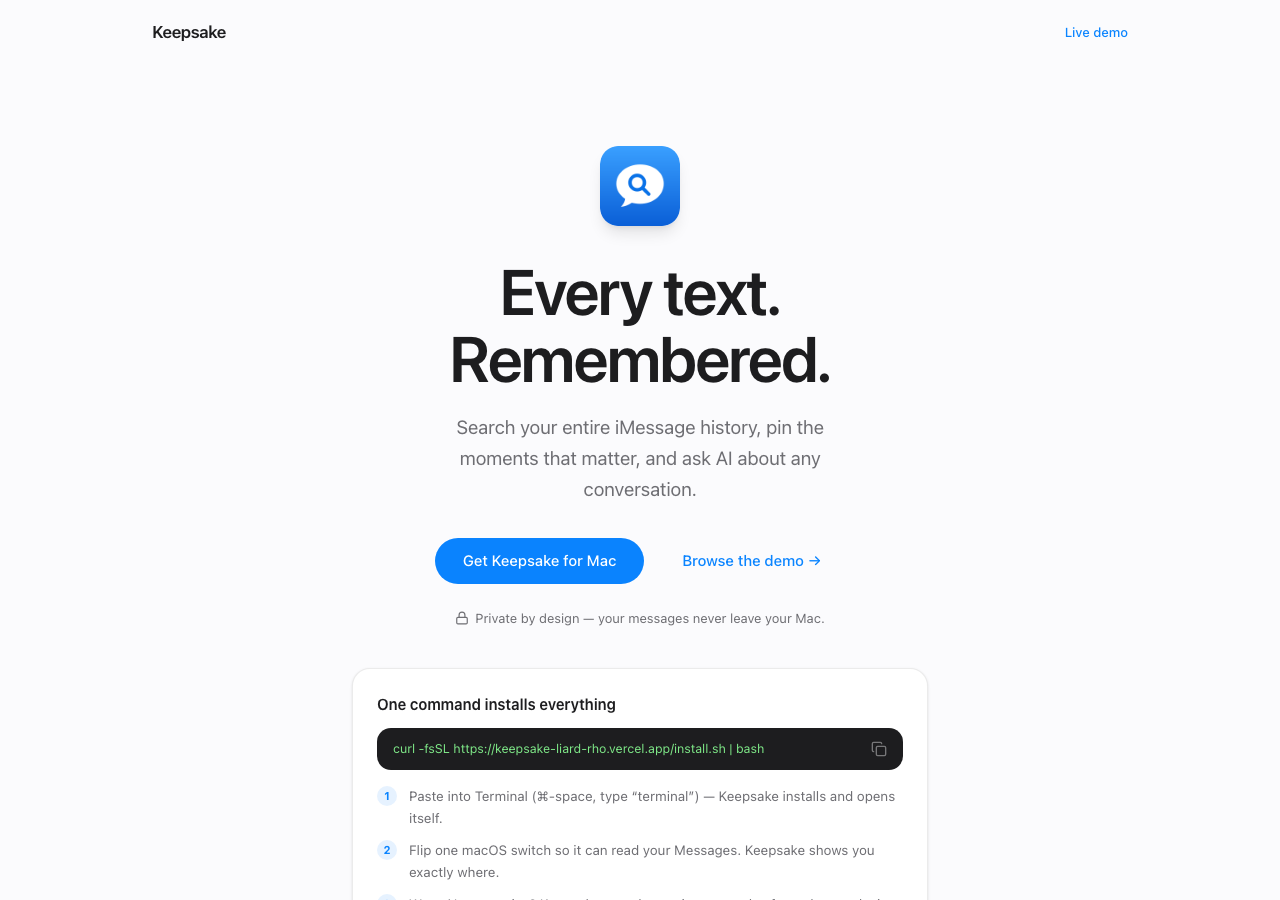
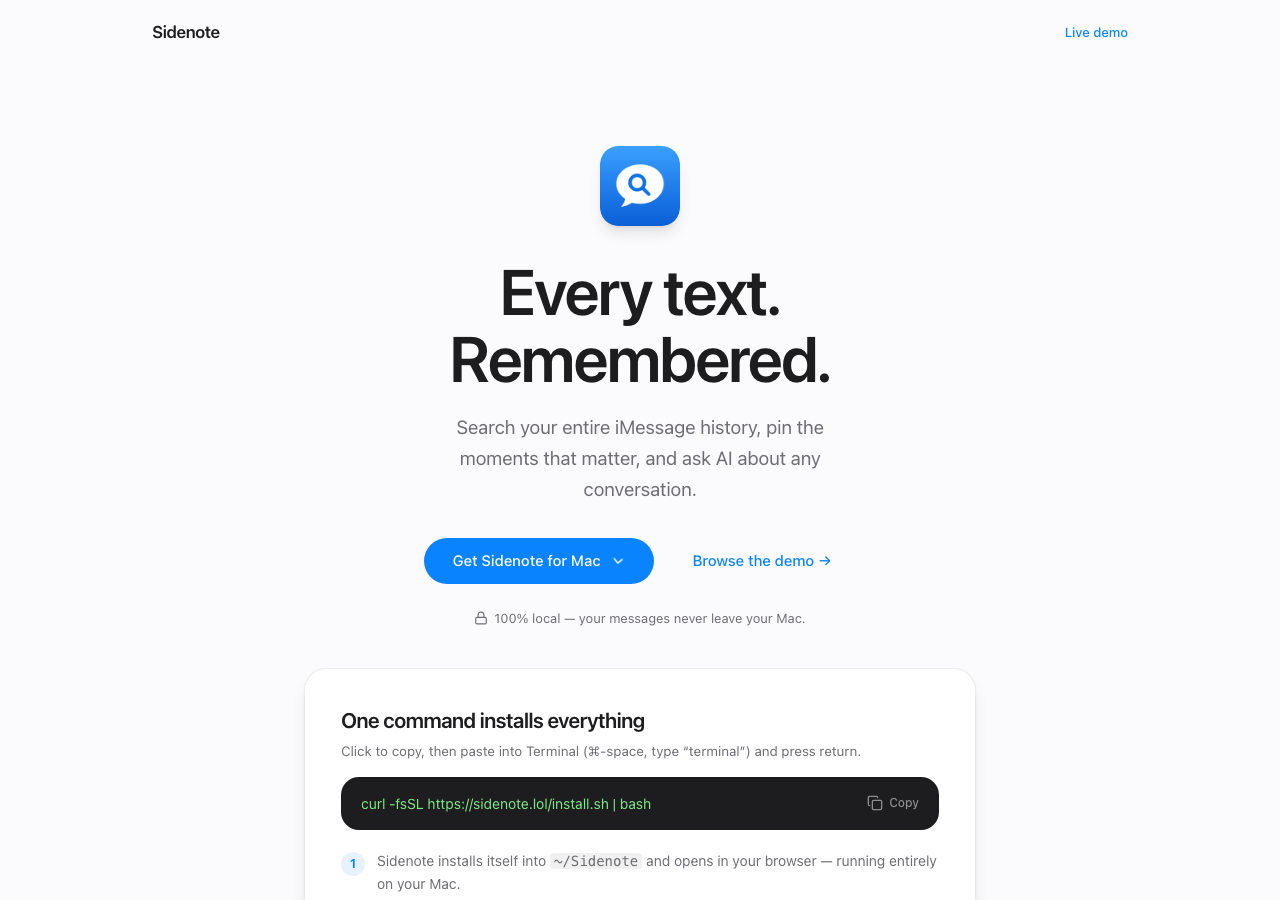
Landing: uniform feature grid with headlines, all four features, explicit Ollama instructions

diff --git a/src/components/landing-page.tsx b/src/components/landing-page.tsx
@@ -9,6 +9,29 @@ import { cn } from "@/lib/utils";
 
 const INSTALL_CMD = "curl -fsSL https://sidenote.lol/install.sh | bash";
 
+function SmallCopy({ text }: { text: string }) {
+  const [copied, setCopied] = useState(false);
+  return (
+    <button
+      onClick={() => {
+        navigator.clipboard.writeText(text);
+        setCopied(true);
+        setTimeout(() => setCopied(false), 1600);
+      }}
+      className="group mt-3 flex w-full items-center justify-between gap-3 rounded-xl bg-[#1d1d1f] px-4 py-3 text-left font-mono text-[13px] text-[#7ee787] transition-colors hover:bg-black dark:bg-black dark:ring-1 dark:ring-white/10"
+    >
+      <span className="min-w-0 truncate">{text}</span>
+      {copied ? (
+        <span className="flex shrink-0 items-center gap-1 font-sans text-[11px] font-medium text-white">
+          <Check className="size-3.5" /> Copied
+        </span>
+      ) : (
+        <Copy className="size-4 shrink-0 text-white/40 group-hover:text-white" />
+      )}
+    </button>
+  );
+}
+
 export function LandingPage({ onEnterDemo }: { onEnterDemo: () => void }) {
   const [showSetup, setShowSetup] = useState(false);
   const [copied, setCopied] = useState(false);
@@ -98,7 +121,6 @@ export function LandingPage({ onEnterDemo }: { onEnterDemo: () => void }) {
               {[
                 <>Sidenote installs itself into <code className="rounded bg-black/[0.06] px-1 dark:bg-white/10">~/Sidenote</code> and opens in your browser — running entirely on your Mac.</>,
                 <>Flip one macOS switch (Full Disk Access) so it can read your Messages. Sidenote shows you exactly where.</>,
-                <>Optional AI: summaries and “ask this thread” run on a <span className="font-medium text-[#1d1d1f] dark:text-white">local model via Ollama</span> — Sidenote sets it up in-app. No cloud, no API keys, nothing uploaded.</>,
               ].map((step, i) => (
                 <li
                   key={i}
@@ -111,38 +133,76 @@ export function LandingPage({ onEnterDemo }: { onEnterDemo: () => void }) {
                 </li>
               ))}
             </ol>
+            <div className="mt-6 border-t border-black/[0.06] pt-5 dark:border-white/10">
+              <p className="text-[15px] font-semibold">
+                Optional: on-device AI{" "}
+                <span className="font-normal text-[#6e6e73] dark:text-[#a1a1a6]">
+                  — summaries &amp; “ask this thread”
+                </span>
+              </p>
+              <p className="mt-1 text-[13.5px] leading-relaxed text-[#6e6e73] dark:text-[#a1a1a6]">
+                AI runs on a local model through{" "}
+                <a
+                  href="https://ollama.com/download"
+                  target="_blank"
+                  rel="noreferrer"
+                  className="font-medium text-[#0a84ff] underline underline-offset-2"
+                >
+                  Ollama
+                </a>{" "}
+                — free, no API keys, nothing uploaded. Install the Ollama app, then pull a model in
+                Terminal (or let Sidenote do it for you in-app):
+              </p>
+              <SmallCopy text="ollama pull qwen3.6:27b" />
+            </div>
           </div>
         )}
 
         <div className="mt-14 md:mt-20">
           <img
             src="/screenshot.png"
-            alt="Sidenote showing a conversation with search results"
+            alt="Sidenote showing a conversation"
             className="w-full rounded-xl border border-black/[0.08] shadow-2xl md:rounded-2xl dark:border-white/10"
           />
         </div>
 
-        <div className="mt-6 grid gap-6 pb-16 md:mt-8 md:grid-cols-2 md:gap-8">
-          <figure>
-            <img
-              src="/shot-search.png"
-              alt="Searching every conversation at once"
-              className="w-full rounded-xl border border-black/[0.08] shadow-xl dark:border-white/10"
-            />
-            <figcaption className="mt-3 text-[13.5px] font-medium text-[#6e6e73] dark:text-[#a1a1a6]">
-              Find anything, from any conversation, instantly.
-            </figcaption>
-          </figure>
-          <figure>
-            <img
-              src="/shot-notes.png"
-              alt="Pinned messages and notes on a person"
-              className="w-full rounded-xl border border-black/[0.08] shadow-xl dark:border-white/10"
-            />
-            <figcaption className="mt-3 text-[13.5px] font-medium text-[#6e6e73] dark:text-[#a1a1a6]">
-              Right-click any message to remember it — pinned beside your notes on that person.
-            </figcaption>
-          </figure>
+        <div className="mt-16 grid gap-x-8 gap-y-12 pb-16 text-left md:mt-24 md:grid-cols-2">
+          {[
+            {
+              img: "/shot-search.png",
+              title: "Search everything",
+              sub: "Instant full-text search across every conversation you've ever had. Click a result to jump to that exact moment.",
+            },
+            {
+              img: "/shot-remember.png",
+              title: "Remember any message",
+              sub: "Right-click a message and hit “Remember this.” No retyping, no screenshots.",
+            },
+            {
+              img: "/shot-notes.png",
+              title: "Notes on every person",
+              sub: "Saved messages and your own notes live side by side — a private memory for each relationship.",
+            },
+            {
+              img: "/shot-export.png",
+              title: "Export any conversation",
+              sub: "Copy a clean transcript of any time range, ready to paste into ChatGPT or Claude.",
+            },
+          ].map((f) => (
+            <figure key={f.title}>
+              <figcaption className="mb-3">
+                <p className="text-[19px] font-semibold tracking-tight">{f.title}</p>
+                <p className="mt-1 text-[13.5px] leading-relaxed text-[#6e6e73] dark:text-[#a1a1a6]">
+                  {f.sub}
+                </p>
+              </figcaption>
+              <img
+                src={f.img}
+                alt={f.title}
+                className="aspect-[8/5] w-full rounded-xl border border-black/[0.08] object-cover shadow-xl dark:border-white/10"
+              />
+            </figure>
+          ))}
         </div>
       </main>
 
